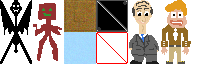
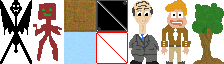
Tree stuff

Changed region(s): [[0.8438, 0.0312, 1.0, 1.0]]

diff --git a/Tempo/src/tempo/GameEngine.java b/Tempo/src/tempo/GameEngine.java
@@ -77,27 +77,31 @@ public class GameEngine implements Runnable {
             gp.enemy.ySpeed += gp.enemy.gravity;
             
             for(int i = 0;i<gp.blocks.size();i++){
-                if(gp.coll.getTopCollision(new Rectangle(gp.enemy.x,gp.enemy.y,gp.enemy.width,gp.enemy.height),new Rectangle(gp.blocks.get(i).x,gp.blocks.get(i).y,gp.blocks.get(i).width,gp.blocks.get(i).height)) && gp.enemy.ySpeed > 0 
-                        || gp.coll.getBottomCollision(new Rectangle(gp.enemy.x,gp.enemy.y,gp.enemy.width,gp.enemy.height),new Rectangle(gp.blocks.get(i).x,gp.blocks.get(i).y,gp.blocks.get(i).width,gp.blocks.get(i).height)) && gp.enemy.ySpeed < 0 ){
-                    gp.enemy.gravity = 0;
-                    gp.enemy.ySpeed = 0;
-                    break;
-                }
-                else{ 
-                    
-                    gp.enemy.gravity = 0.5;
+                if(gp.blocks.get(i).collision){
+                    if(gp.coll.getTopCollision(new Rectangle(gp.enemy.x,gp.enemy.y,gp.enemy.width,gp.enemy.height),new Rectangle(gp.blocks.get(i).x,gp.blocks.get(i).y,gp.blocks.get(i).width,gp.blocks.get(i).height)) && gp.enemy.ySpeed > 0 
+                            || gp.coll.getBottomCollision(new Rectangle(gp.enemy.x,gp.enemy.y,gp.enemy.width,gp.enemy.height),new Rectangle(gp.blocks.get(i).x,gp.blocks.get(i).y,gp.blocks.get(i).width,gp.blocks.get(i).height)) && gp.enemy.ySpeed < 0 ){
+                        gp.enemy.gravity = 0;
+                        gp.enemy.ySpeed = 0;
+                        break;
+                    }
+                    else{ 
+
+                        gp.enemy.gravity = 0.5;
+                    }
                 }
             }
             for(int i = 0;i<gp.blocks.size();i++){
-                Rectangle temp = gp.coll.getCollision(new Rectangle(gp.enemy.x,gp.enemy.y,gp.enemy.width,gp.enemy.height), new Rectangle(gp.blocks.get(i).x,gp.blocks.get(i).y,gp.blocks.get(i).width,gp.blocks.get(i).height));
-                gp.enemy.x = temp.x;
-                gp.enemy.y = temp.y;
-                
-                for(int j = 0;j<gp.bullets.size();j++){
-                    if(gp.coll.isIntersect(new Rectangle(gp.bullets.get(j).x,gp.bullets.get(j).y,gp.bullets.get(j).width,gp.bullets.get(j).height), new Rectangle(gp.blocks.get(i).x,gp.blocks.get(i).y,gp.blocks.get(i).width,gp.blocks.get(i).height)))
-                    {
-                           gp.bullets.remove(j);
+                if(gp.blocks.get(i).collision){
+                    Rectangle temp = gp.coll.getCollision(new Rectangle(gp.enemy.x,gp.enemy.y,gp.enemy.width,gp.enemy.height), new Rectangle(gp.blocks.get(i).x,gp.blocks.get(i).y,gp.blocks.get(i).width,gp.blocks.get(i).height));
+                    gp.enemy.x = temp.x;
+                    gp.enemy.y = temp.y;
 
+                    for(int j = 0;j<gp.bullets.size();j++){
+                        if(gp.coll.isIntersect(new Rectangle(gp.bullets.get(j).x,gp.bullets.get(j).y,gp.bullets.get(j).width,gp.bullets.get(j).height), new Rectangle(gp.blocks.get(i).x,gp.blocks.get(i).y,gp.blocks.get(i).width,gp.blocks.get(i).height)))
+                        {
+                               gp.bullets.remove(j);
+
+                        }
                     }
                 }
             }

diff --git a/Tempo/src/tempo/GamePanel.java b/Tempo/src/tempo/GamePanel.java
@@ -45,6 +45,12 @@ public class GamePanel extends JPanel{
         blocks.add(new Block(50 * 8, 520, 50, 50, ss.getSprite(64, 0, 32, 32), true));
         blocks.add(new Block(50 * 8, 420, 50, 50, ss.getSprite(64, 0, 32, 32), true));
         
+        blocks.add(new Block(50 * 20, 570, 50, 100, ss.getSprite(192, 0, 32, 64), false));
+        blocks.add(new Block(50 * 9, 570, 50, 100, ss.getSprite(192, 0, 32, 64), false));
+        blocks.add(new Block(50 * 11, 570, 50, 100, ss.getSprite(192, 0, 32, 64), false));
+        blocks.add(new Block(50 * 13, 570, 50, 100, ss.getSprite(192, 0, 32, 64), false));
+        blocks.add(new Block(50 * 15, 270, 200, 400, ss.getSprite(192, 0, 32, 64), false));
+        
         
         
     }

diff --git a/Tempo/src/tempo/sprites/Block.java b/Tempo/src/tempo/sprites/Block.java
@@ -15,7 +15,7 @@ import tempo.Collision;
  */
 public class Block extends Sprites{
     
-    boolean collision;
+    public boolean collision;
     
     
     public Block(int x, int y, int width, int height, BufferedImage image, boolean collision){
